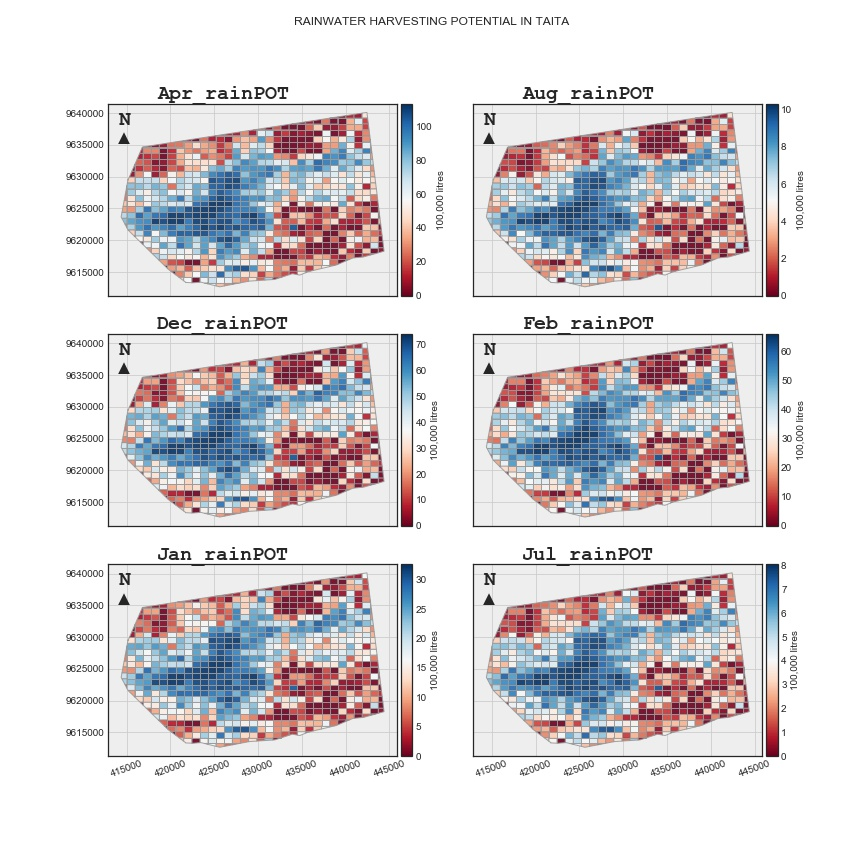
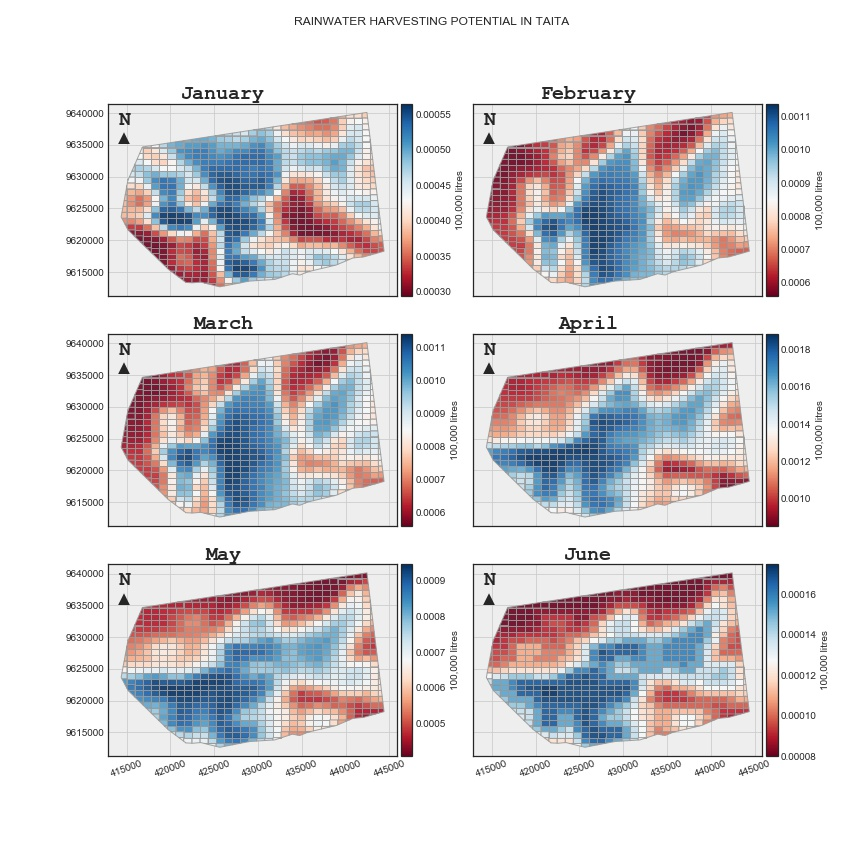
arranging the plot in month order

diff --git a/thesis/analysis.py b/thesis/analysis.py
@@ -398,8 +398,15 @@ def plot_map(dataFrame,  column_list):
     plt.savefig(r'C:\Users\oyeda\Desktop\msc\test.jpg')
 
 
-pot_list = [pot for pot in buildings_rain_aggr.columns if pot.endswith('rainPOT') and pot != 'ann_rainPOT']
-plot_map(buildings_rain_aggr, pot_list)
+#pot_list = [pot for pot in buildings_rain_aggr.columns if pot.endswith('rainPOT') and pot != 'ann_rainPOT']
+
+
+month_list = ['January', 'February', 'March', 'April', 'May', 'June', 'July',
+              'August', 'September', 'October', 'November', 'December']
+rain_pot_list = list(map(lambda x: x[:3] + '_rainPOT', month_list))
+rain_list =list(map(lambda x: x[:3] + '_rain', month_list))
+plot_map(buildings_rain_aggr, rain_list)
+plot_map(buildings_rain_aggr, rain_pot_list)
 # =============================================================================
 # 
 # =============================================================================
